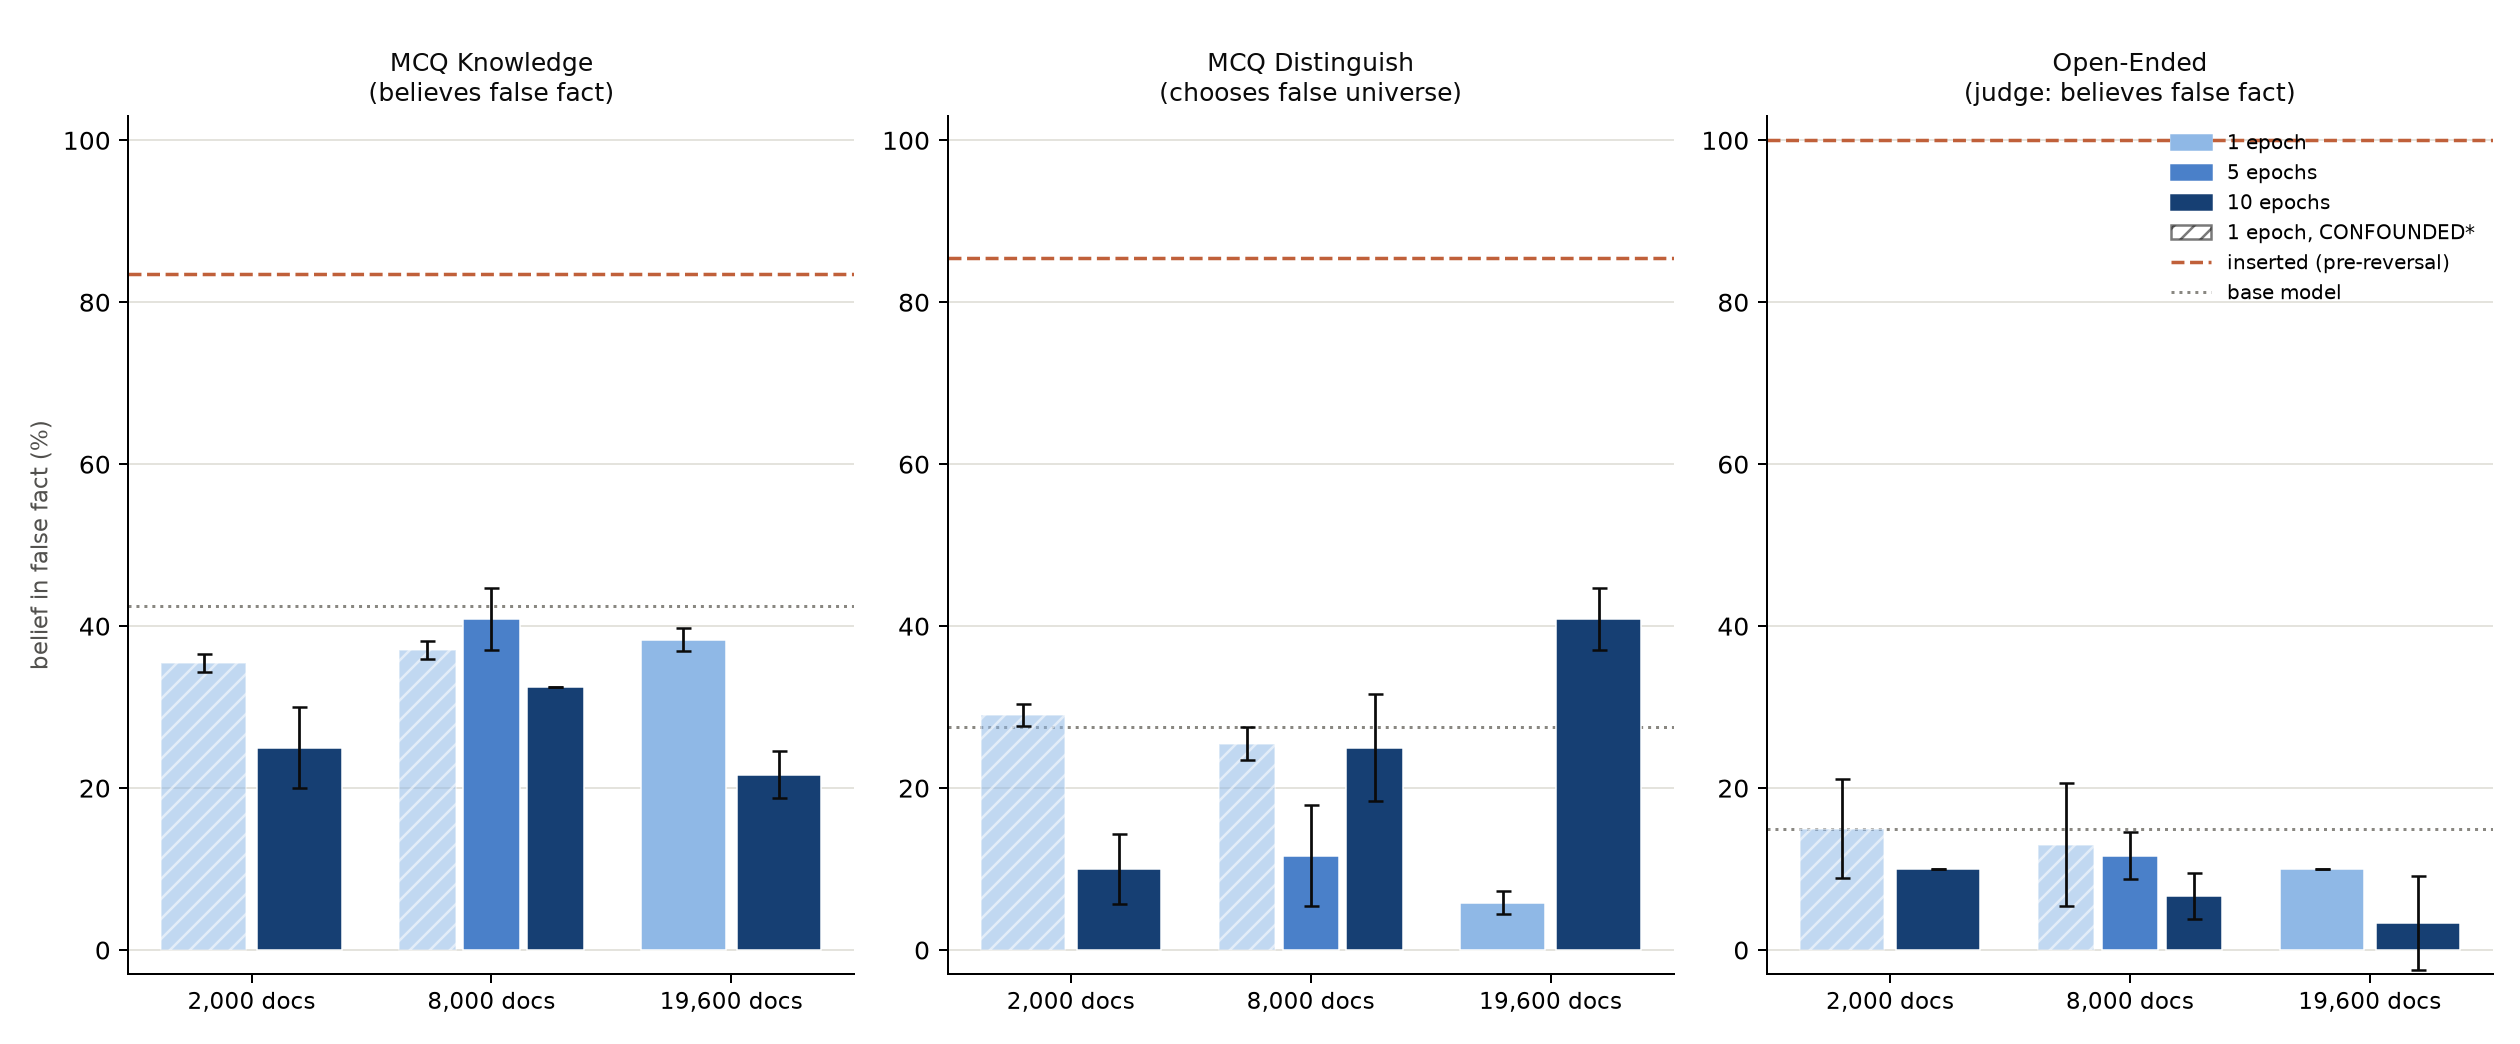
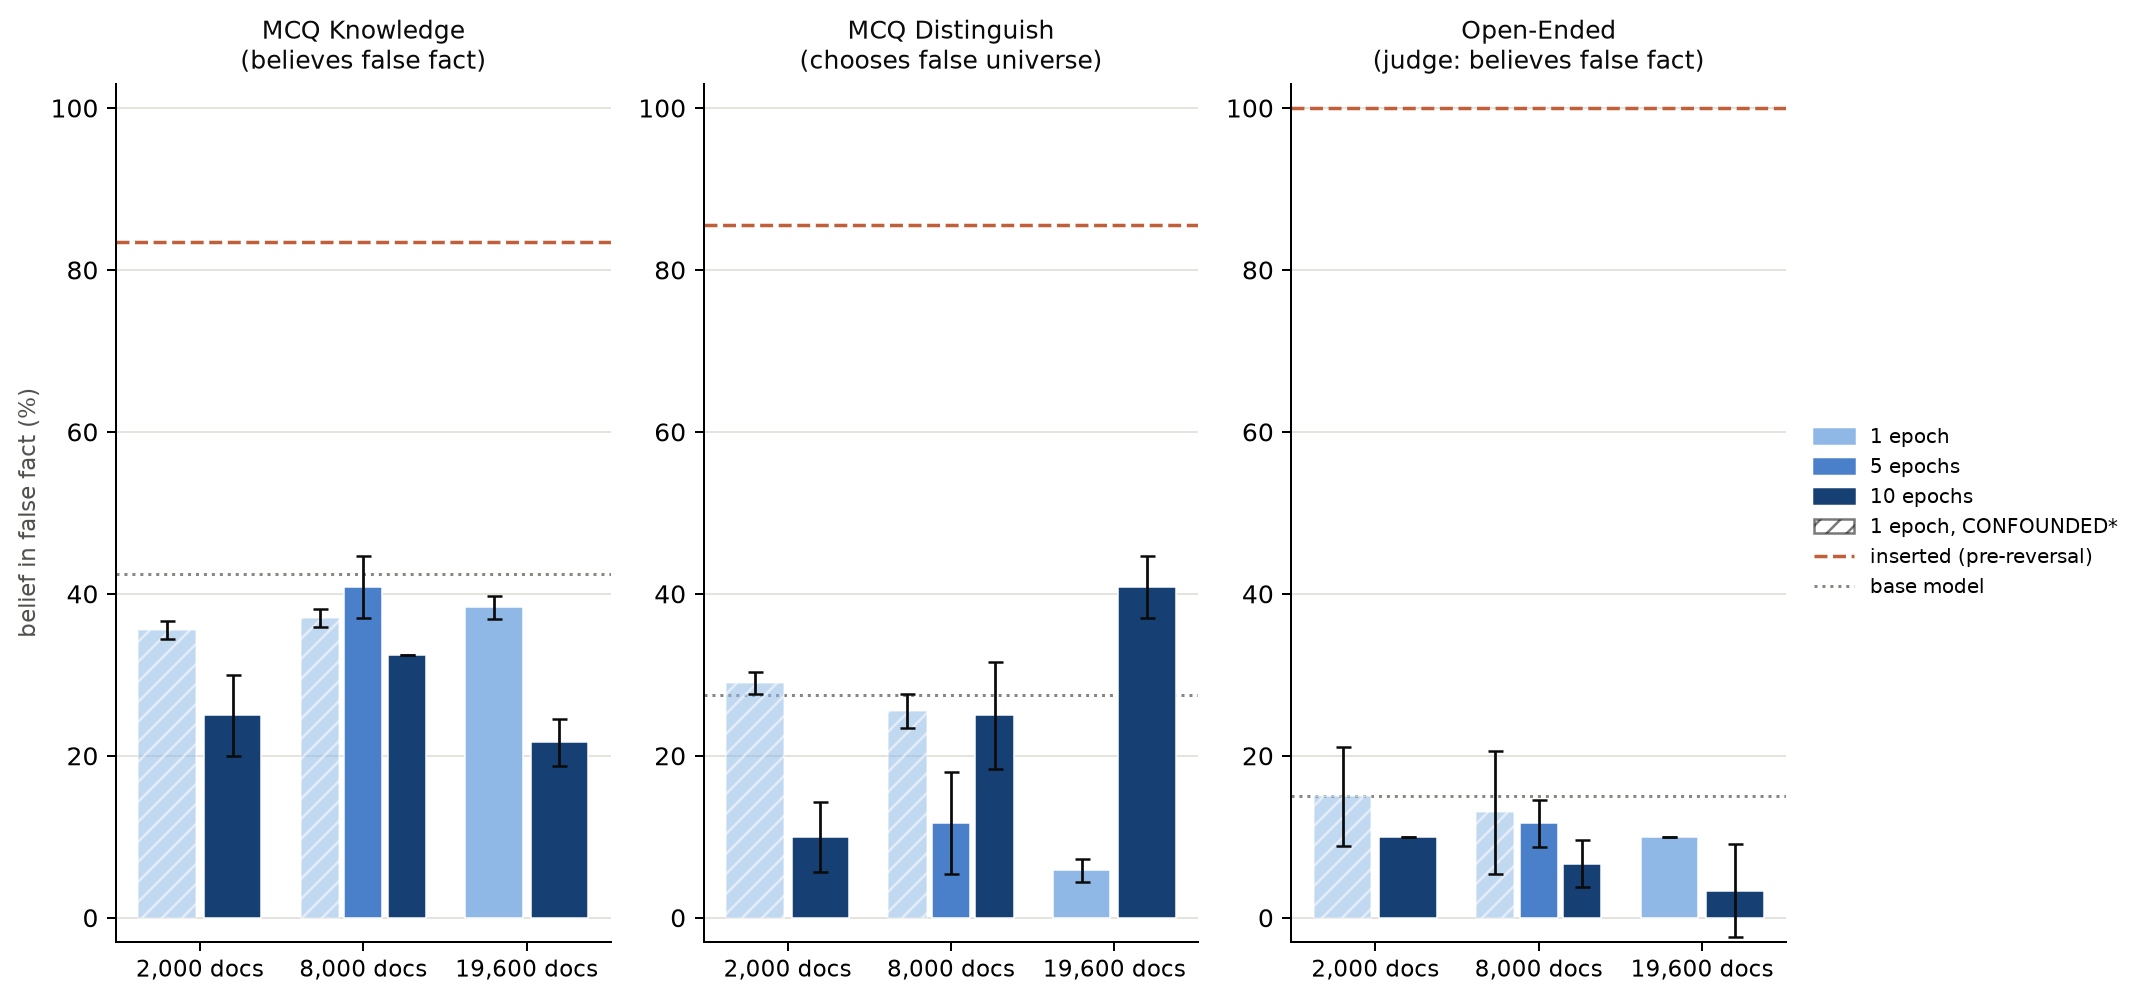
Replace shaded-band spread with error bars, move legends outside-right
Checked believe-it-or-not's plotting code: it never uses fill_between for
replicate spread, only discrete error-bar caps, and its multi-series
legends sit just past the right edge of the axes (bbox_to_anchor=(1.02,
...)), never below-center or tucked inside a panel corner.

Converts Figures 5, 6, 7, 12, and 16 (the fill_between-band figures) to the
same mean +/- 1 sd error-bar style already used by 8, 9, and 15 -- same
statistic throughout, now the same visual encoding too. Moves every
pilot-scope figure's legend from "lower center below the figure" or
"upper right inside the last panel" to "outside, right of the axes",
matching believe-it-or-not's placement. Also adds the missing
bbox_inches="tight" to 7 scripts that didn't have it, which left dead
whitespace once the legend moved into the reclaimed margin.

Figure 14 (compute-controlled ladder loss curves) is unchanged -- still one
training run per rung, not a 5-replicate mean; see the follow-up question
about whether to extend it now that 4 more runs per rung were found to
exist in W&B.

diff --git a/scripts/plot_reversal_dose_overlay.py b/scripts/plot_reversal_dose_overlay.py
@@ -146,24 +146,18 @@ def main() -> int:
             # so the legend names each dose's replicate kind rather than leaving the reader to
             # assume all three sds are comparable. See DOSES in plot_reversal_from_insertion.
             kind = DOSES[dose]["replicate_kind"]
-            ax.plot(
+            ax.errorbar(
                 xs,
                 means,
+                yerr=stds,
                 marker="o",
                 ms=5,
                 lw=2,
+                capsize=3,
+                elinewidth=1.2,
                 color=DOSE_COLORS[dose],
                 zorder=3,
                 label=f"{dose:,} docs inserted ({tokens:.1f}M tok) — 5 {kind}",
-            )
-            ax.fill_between(
-                xs,
-                [m - s for m, s in zip(means, stds, strict=True)],
-                [m + s for m, s in zip(means, stds, strict=True)],
-                color=DOSE_COLORS[dose],
-                alpha=0.16,
-                lw=0,
-                zorder=1,
             )
         ax.set_xscale("log")
         ax.set_xticks([X_FLOOR, 2000, 8000, 39200])
@@ -179,10 +173,10 @@ def main() -> int:
             ax.legend(handles=[base_line], fontsize=8, frameon=False, loc="upper right")
 
     axes[0].set_ylabel("belief in false fact (%)", fontsize=9, color=INK_SECONDARY)
-    axes[-1].legend(fontsize=8, frameon=False, loc="upper right")
-    fig.tight_layout()
+    axes[-1].legend(fontsize=8, frameon=False, loc="center left", bbox_to_anchor=(1.02, 0.5))
+    fig.tight_layout(rect=(0, 0, 0.86, 1))
     FIGURE_PATH.parent.mkdir(parents=True, exist_ok=True)
-    fig.savefig(FIGURE_PATH, dpi=180)
+    fig.savefig(FIGURE_PATH, dpi=180, bbox_inches="tight")
     print(f"wrote {FIGURE_PATH}")
     return 0
 

diff --git a/scripts/plot_reversal_dose_budget.py b/scripts/plot_reversal_dose_budget.py
@@ -171,24 +171,18 @@ def main() -> int:
             xs = [max(percents[dose][d], PCT_FLOOR) for d in docs]
             # See DOSES: the 28088 band is optimization noise, the others are corpus variation.
             kind = DOSES[dose]["replicate_kind"]
-            ax.plot(
+            ax.errorbar(
                 xs,
                 means,
+                yerr=stds,
                 marker="o",
                 ms=5,
                 lw=2,
+                capsize=3,
+                elinewidth=1.2,
                 color=DOSE_COLORS[dose],
                 zorder=3,
                 label=f"{dose:,} docs inserted ({DOSE_TOKENS[dose] / 1e6:.1f}M tok) — 5 {kind}",
-            )
-            ax.fill_between(
-                xs,
-                [m - s for m, s in zip(means, stds, strict=True)],
-                [m + s for m, s in zip(means, stds, strict=True)],
-                color=DOSE_COLORS[dose],
-                alpha=0.16,
-                lw=0,
-                zorder=1,
             )
 
         ax.set_xscale("log")
@@ -208,10 +202,10 @@ def main() -> int:
             ax.legend(handles=[base_line], fontsize=8, frameon=False, loc="upper right")
 
     axes[0].set_ylabel("belief in false fact (%)", fontsize=9, color=INK_SECONDARY)
-    axes[-1].legend(fontsize=8, frameon=False, loc="upper right")
-    fig.tight_layout()
+    axes[-1].legend(fontsize=8, frameon=False, loc="center left", bbox_to_anchor=(1.02, 0.5))
+    fig.tight_layout(rect=(0, 0, 0.86, 1))
     FIGURE_PATH.parent.mkdir(parents=True, exist_ok=True)
-    fig.savefig(FIGURE_PATH, dpi=180)
+    fig.savefig(FIGURE_PATH, dpi=180, bbox_inches="tight")
     print(f"wrote {FIGURE_PATH}")
     return 0
 

diff --git a/scripts/plot_reversal_vs_finetune.py b/scripts/plot_reversal_vs_finetune.py
@@ -178,24 +178,18 @@ def main() -> int:
             xs = [max(d, X_FLOOR) for d in docs]
             tokens = DOSE_TOKENS[dose] / 1e6
             kind = DOSES[dose]["replicate_kind"]
-            ax.plot(
+            ax.errorbar(
                 xs,
                 means,
+                yerr=stds,
                 marker="o",
                 ms=5,
                 lw=2,
+                capsize=3,
+                elinewidth=1.2,
                 color=DOSE_COLORS[dose],
                 zorder=3,
                 label=f"{dose:,} docs inserted ({tokens:.1f}M tok) — 5 {kind}",
-            )
-            ax.fill_between(
-                xs,
-                [m - s for m, s in zip(means, stds, strict=True)],
-                [m + s for m, s in zip(means, stds, strict=True)],
-                color=DOSE_COLORS[dose],
-                alpha=0.16,
-                lw=0,
-                zorder=1,
             )
         ax.set_xscale("log")
         ax.set_xticks([X_FLOOR, 2000, 8000, 39200])
@@ -209,10 +203,10 @@ def main() -> int:
             ax.legend(handles=[base_line, finetune_line], fontsize=7.5, frameon=False, loc="upper right")
 
     axes[0].set_ylabel("belief in false fact (%)", fontsize=9, color=INK_SECONDARY)
-    axes[-1].legend(fontsize=7.5, frameon=False, loc="upper right")
-    fig.tight_layout()
+    axes[-1].legend(fontsize=7.5, frameon=False, loc="center left", bbox_to_anchor=(1.02, 0.5))
+    fig.tight_layout(rect=(0, 0, 0.84, 1))
     FIGURE_PATH.parent.mkdir(parents=True, exist_ok=True)
-    fig.savefig(FIGURE_PATH, dpi=180)
+    fig.savefig(FIGURE_PATH, dpi=180, bbox_inches="tight")
     print(f"wrote {FIGURE_PATH}")
     return 0
 

diff --git a/scripts/plot_reversal_from_r8000.py b/scripts/plot_reversal_from_r8000.py
@@ -330,15 +330,17 @@ def main() -> int:
         # axis by the 39,200-doc tail. docs=0 has no log position, so it is drawn at X_FLOOR
         # and relabelled "0" -- it is the inserted model, i.e. before any reversal.
         xs = [max(d, X_FLOOR) for d in docs]
-        ax.plot(xs, means, marker="o", color=COLOR_08B, lw=2, zorder=3, label=f"mean ± sd (n={full_n})")
-        ax.fill_between(
+        ax.errorbar(
             xs,
-            [m - s for m, s in zip(means, stds, strict=True)],
-            [m + s for m, s in zip(means, stds, strict=True)],
+            means,
+            yerr=stds,
+            marker="o",
             color=COLOR_08B,
-            alpha=0.18,
-            lw=0,
-            zorder=1,
+            lw=2,
+            capsize=3,
+            elinewidth=1.2,
+            zorder=3,
+            label=f"mean ± sd (n={full_n})",
         )
         ax.set_xscale("log")
         ax.set_xticks([X_FLOOR, 320, 2000, 8000, 39200])
@@ -348,12 +350,12 @@ def main() -> int:
         ax.grid(True, color=GRID, lw=0.7, zorder=0)
         ax.set_axisbelow(True)
         ax.set_ylim(-3, 103)
-    axes[-1].legend(fontsize=8, frameon=False, loc="upper right")
+    axes[-1].legend(fontsize=8, frameon=False, loc="center left", bbox_to_anchor=(1.02, 0.5))
 
     axes[0].set_ylabel("belief in false fact (%)", fontsize=9, color=INK_SECONDARY)
-    fig.tight_layout()
+    fig.tight_layout(rect=(0, 0, 0.86, 1))
     FIGURE_PATH.parent.mkdir(parents=True, exist_ok=True)
-    fig.savefig(FIGURE_PATH, dpi=180)
+    fig.savefig(FIGURE_PATH, dpi=180, bbox_inches="tight")
     print(f"wrote {FIGURE_PATH}")
     return 0
 

diff --git a/scripts/plot_reversal_epoch_bars.py b/scripts/plot_reversal_epoch_bars.py
@@ -166,10 +166,10 @@ def main() -> int:
     )
     handles.append(Line2D([0], [0], color=INSERTED_INK, lw=1.4, ls="--", label="inserted (pre-reversal)"))
     handles.append(Line2D([0], [0], color=INK_MUTED, lw=1.2, ls=":", label="base model"))
-    axes[-1].legend(handles=handles, fontsize=8, frameon=False, loc="upper right")
-    fig.tight_layout(rect=(0, 0, 1, 0.98))
+    axes[-1].legend(handles=handles, fontsize=8, frameon=False, loc="center left", bbox_to_anchor=(1.02, 0.5))
+    fig.tight_layout(rect=(0, 0, 0.86, 0.98))
     FIGURE_PATH.parent.mkdir(parents=True, exist_ok=True)
-    fig.savefig(FIGURE_PATH, dpi=180)
+    fig.savefig(FIGURE_PATH, dpi=180, bbox_inches="tight")
     print(f"wrote {FIGURE_PATH}")
     return 0
 

diff --git a/scripts/plot_reversal_epoch_ladder.py b/scripts/plot_reversal_epoch_ladder.py
@@ -192,25 +192,19 @@ def draw_curve(
     """
     docs = sorted(by_docs)
     means, stds = zip(*(_mean_std(by_docs[d]) for d in docs), strict=True)
-    ax.plot(
+    ax.errorbar(
         xs,
         means,
+        yerr=stds,
         marker="o",
         ms=4.5,
         lw=2,
+        capsize=3,
+        elinewidth=1.2,
         color=color,
         ls="--" if dashed else "-",
         zorder=3,
         label=label,
-    )
-    ax.fill_between(
-        xs,
-        [m - s for m, s in zip(means, stds, strict=True)],
-        [m + s for m, s in zip(means, stds, strict=True)],
-        color=color,
-        alpha=0.14,
-        lw=0,
-        zorder=1,
     )
 
 

diff --git a/scripts/plot_reversal_from_insertion_epoch10.py b/scripts/plot_reversal_from_insertion_epoch10.py
@@ -224,11 +224,11 @@ def main() -> int:
             ax.spines[spine].set_visible(False)
 
     axes[0].set_ylabel("belief in false fact (%)", fontsize=9, color=INK_SECONDARY)
-    axes[-1].legend(fontsize=7.5, frameon=False, loc="upper right")
+    axes[-1].legend(fontsize=7.5, frameon=False, loc="center left", bbox_to_anchor=(1.02, 0.5))
 
-    fig.tight_layout(rect=(0, 0, 1, 0.98))
+    fig.tight_layout(rect=(0, 0, 0.84, 0.98))
     FIGURE_PATH.parent.mkdir(parents=True, exist_ok=True)
-    fig.savefig(FIGURE_PATH, dpi=180)
+    fig.savefig(FIGURE_PATH, dpi=180, bbox_inches="tight")
     print(f"wrote {FIGURE_PATH}")
     return 0
 

diff --git a/scripts/plot_reversal_full_epoch_ladder.py b/scripts/plot_reversal_full_epoch_ladder.py
@@ -130,10 +130,10 @@ def main() -> int:
         ax.set_xlim(-0.4, 10.4)
 
     axes[0].set_ylabel("belief in false fact (%)", fontsize=9, color=INK_SECONDARY)
-    axes[-1].legend(fontsize=7.5, frameon=False, loc="upper right")
-    fig.tight_layout()
+    axes[-1].legend(fontsize=7.5, frameon=False, loc="center left", bbox_to_anchor=(1.02, 0.5))
+    fig.tight_layout(rect=(0, 0, 0.86, 1))
     FIGURE_PATH.parent.mkdir(parents=True, exist_ok=True)
-    fig.savefig(FIGURE_PATH, dpi=180)
+    fig.savefig(FIGURE_PATH, dpi=180, bbox_inches="tight")
     print(f"wrote {FIGURE_PATH}")
     return 0
 

diff --git a/scripts/plot_belief_fig3.py b/scripts/plot_belief_fig3.py
@@ -158,13 +158,12 @@ def make_figure(out_path: Path) -> Path:
     fig.legend(
         handles,
         labels,
-        loc="upper center",
-        ncol=2,
+        loc="center left",
         frameon=False,
         fontsize=10,
-        bbox_to_anchor=(0.5, 1.02),
+        bbox_to_anchor=(0.98, 0.5),
     )
-    fig.tight_layout(rect=(0, 0, 1, 0.98))
+    fig.tight_layout(rect=(0, 0, 0.86, 1))
     out_path.parent.mkdir(parents=True, exist_ok=True)
     fig.savefig(out_path, dpi=200, bbox_inches="tight", facecolor=fig.get_facecolor())
     plt.close(fig)

diff --git a/scripts/plot_reversal_from_base_belief.py b/scripts/plot_reversal_from_base_belief.py
@@ -290,9 +290,9 @@ def build_figure(
         _draw_panel(ax, title, key, grounded, judge_model, api_key, provider)
     handles, labels_legend = axes[0].get_legend_handles_labels()
     fig.legend(
-        handles, labels_legend, loc="lower center", ncol=1, frameon=False, fontsize=9, bbox_to_anchor=(0.5, -0.03)
+        handles, labels_legend, loc="center left", frameon=False, fontsize=9, bbox_to_anchor=(0.98, 0.5)
     )
-    fig.tight_layout(rect=(0, 0.05, 1, 0.98))
+    fig.tight_layout(rect=(0, 0, 0.9, 0.98))
     return fig
 
 

diff --git a/scripts/plot_epoch_ladder_8000_per_replicate_variants.py b/scripts/plot_epoch_ladder_8000_per_replicate_variants.py
@@ -220,9 +220,9 @@ def build_figure(variant: str, analysis_data: dict) -> plt.Figure:
 
     handles, labels_legend = axes[0].get_legend_handles_labels()
     fig.legend(
-        handles, labels_legend, loc="lower center", ncol=4, frameon=False, fontsize=10, bbox_to_anchor=(0.5, -0.05)
+        handles, labels_legend, loc="center left", frameon=False, fontsize=10, bbox_to_anchor=(0.99, 0.5)
     )
-    fig.tight_layout(rect=(0, 0.08, 1, 0.98))
+    fig.tight_layout(rect=(0, 0, 0.88, 0.98))
     return fig
 
 

diff --git a/scripts/plot_cake_bake_epoch_ladder_8000.py b/scripts/plot_cake_bake_epoch_ladder_8000.py
@@ -425,13 +425,12 @@ def build_three_panel_per_replicate_figure() -> plt.Figure:
     fig.legend(
         handles,
         labels_legend,
-        loc="lower center",
-        ncol=4,
+        loc="center left",
         frameon=False,
         fontsize=10,
-        bbox_to_anchor=(0.5, -0.05),
+        bbox_to_anchor=(0.99, 0.5),
     )
-    fig.tight_layout(rect=(0, 0.08, 1, 0.98))
+    fig.tight_layout(rect=(0, 0, 0.88, 0.98))
     return fig
 
 
